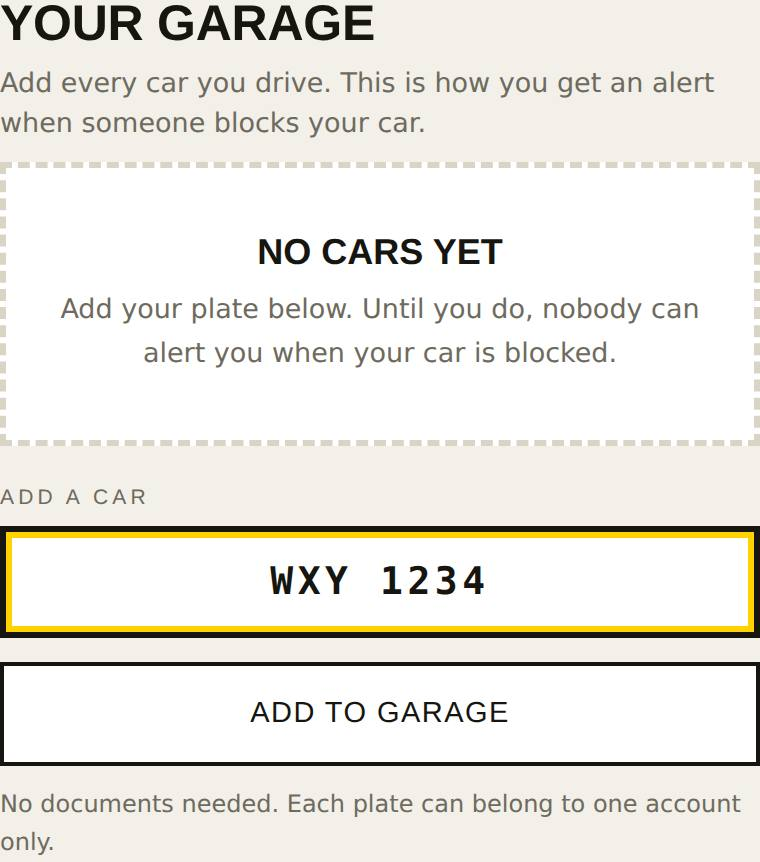
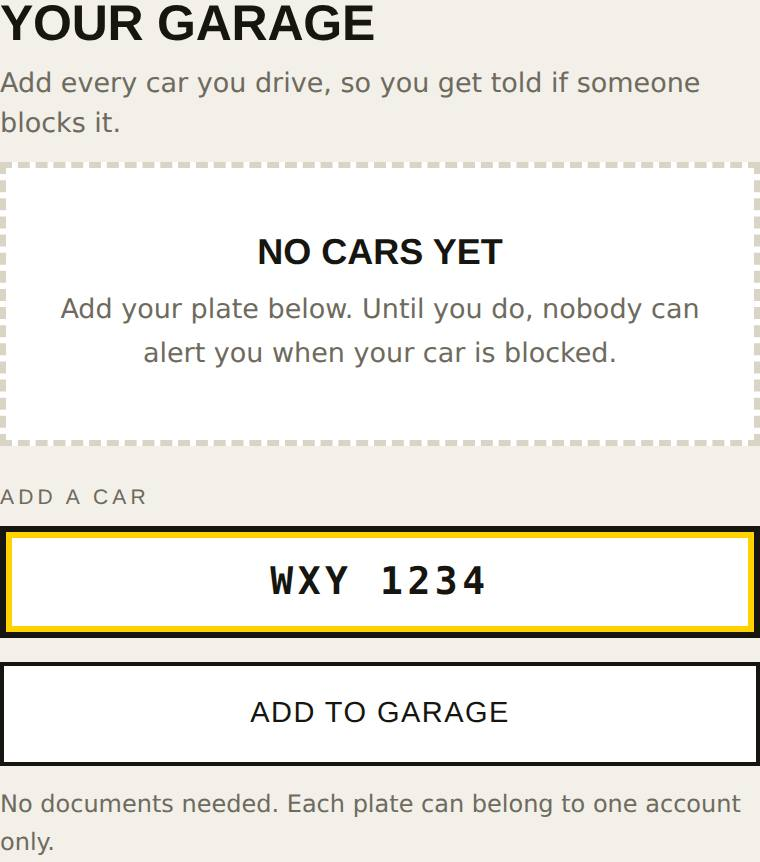
First impression: rotating pitch on the first screen and Help, warmer gate copy
Copy and UI only, no program logic. First screen leads with the blocker's view
(no number, no 2am calls, no name card), six one-line messages in a rotator.
Sign-in, verify and a few app subtitles are shorter and warmer, with BM. The
verify note no longer mentions a link (the code is an OTP). The Facebook link is
hidden until FB_URL is set. Guide screenshots regenerated.

Claude-Session: https://claude.ai/code/session_01LZzr5kwdG5JXyeAKEinPdn

Changed region(s): [[0.0, 0.0603, 0.9382, 0.1508]]

diff --git a/public/index.html b/public/index.html
@@ -331,12 +331,21 @@
     <div class="sign">
       <div class="hazard"></div>
       <div class="pad">
-        <div class="glyph">📍</div>
-        <h1 class="disp">Where are you?</h1>
-        <p>Tolong Alih is for drivers in Malaysia. We check your location once to confirm you're here.</p>
-        <button class="btn btn-hz" id="askGeo">Turn on location</button>
+        <h1 class="disp">Be the considerate driver.</h1>
+        <div class="rot" id="rot">
+          <div class="stack">
+            <div class="rl on"><span class="ri">🙏</span><div class="rt"><b>Say sorry the easy way.</b> A quick heads-up beats an angry honk.</div></div>
+            <div class="rl"><span class="ri">📵</span><div class="rt"><b>Your number stays yours.</b> They see your plate, nothing else. No name card on the dashboard.</div></div>
+            <div class="rl"><span class="ri">🌙</span><div class="rt"><b>No 2am calls.</b> A stranger can't ring you up to vent. Everything goes through the app.</div></div>
+            <div class="rl"><span class="ri">😌</span><div class="rt"><b>Running late? Tell them.</b> They see when you'll be back, and can wait calmly.</div></div>
+            <div class="rl"><span class="ri">🔍</span><div class="rt"><b>Blocked in yourself?</b> Type the plate and we find the driver. No shouting match.</div></div>
+            <div class="rl"><span class="ri">🎁</span><div class="rt"><b>Free for drivers.</b> Local shops pay for it, not you.</div></div>
+          </div>
+          <div class="rdots" id="rotDots"></div>
+        </div>
+        <button class="btn btn-hz" id="askGeo">Get started</button>
         <button class="btn btn-flat" id="mockGeo">Set location manually</button>
-        <p class="note" id="geoNote">Other drivers never see where you are.</p>
+        <p class="note" id="geoNote">Your phone will ask to share your location once. It only checks you're in Malaysia, and other drivers never see it.</p>
       </div>
     </div>
   </section>
@@ -347,9 +356,8 @@
     <div class="sign">
       <div class="hazard"></div>
       <div class="pad">
-        <div class="glyph blue" style="color:#fff">🔑</div>
-        <h1 class="disp">Sign in</h1>
-        <p>Your account links your car plate to you, so only you get its alerts.</p>
+        <h1 class="disp">Almost there.</h1>
+        <p>Make your free account. Your plate is how people reach you. Your name, email and number stay private.</p>
 
         <button class="btn" id="google"><span class="g">G</span>Continue with Google</button>
 
@@ -365,8 +373,8 @@
         <input id="pw" type="password" placeholder="At least 8 characters" autocomplete="current-password" />
         <button class="btn btn-hz" id="signup">Create account</button>
         <button class="btn btn-flat" id="signin">I already have an account</button>
-        <p class="note">By continuing, you agree we keep your email and the plates you add to run the service. You can ask us to delete them any time.</p>
-        <p class="note"><a href="/terms.html" style="color:var(--signage);font-weight:600">Read our simple terms. We never sell your data.</a></p>
+        <p class="note">We never sell your data.</p>
+        <p class="note"><a href="/terms.html" style="color:var(--signage);font-weight:600">Terms of use</a> · <a href="/privacy.html" style="color:var(--signage);font-weight:600">Privacy</a></p>
       </div>
     </div>
   </section>
@@ -379,12 +387,12 @@
       <div class="pad">
         <div class="glyph">✉</div>
         <h1 class="disp">Check your email</h1>
-        <p>Six-digit code sent to <b id="mailTo" class="mono">you@email.com</b>. Verifying keeps fake plate claims out of Tolong Alih.</p>
+        <p>We sent a six-digit code to <b id="mailTo" class="mono">you@email.com</b>. It keeps fake plate claims out.</p>
         <span class="lbl eyebrow">Verification code</span>
         <input id="code" class="plate-in" placeholder="000000" maxlength="6" inputmode="numeric" autocomplete="one-time-code" />
         <button class="btn btn-hz" id="verify">Verify and continue</button>
         <button class="btn btn-flat" id="resend">Send it again</button>
-        <p class="note">Or just tap the link in that email.</p>
+        <p class="note">Nothing yet? Check your spam folder.</p>
       </div>
     </div>
   </section>
@@ -418,7 +426,7 @@
       <!-- DECLARE -->
       <section class="panel on" id="pD" role="tabpanel">
         <h2 class="disp">Declare a block</h2>
-        <p class="sub">Double-parked and blocking someone's car? Tell them here. They get an alert on their phone right away.</p>
+        <p class="sub">Blocking someone in? Tell them here. Their phone buzzes straight away.</p>
 
         <span class="lbl eyebrow">My car</span>
         <div id="pickCars"></div>
@@ -449,13 +457,13 @@
         <h2 class="disp">Alerts</h2>
         <p class="sub">When someone blocks your car, or replies to you, it shows up here.</p>
         <div id="inbox"></div>
-        <a class="fb" href="https://www.facebook.com/" target="_blank" rel="noopener">👍 Follow Tolong Alih on Facebook</a>
+        <a class="fb" id="fbLink" href="#" target="_blank" rel="noopener" hidden>👍 Follow Tolong Alih on Facebook</a>
       </section>
 
       <!-- TRACE -->
       <section class="panel" id="pS" role="tabpanel">
         <h2 class="disp">Trace</h2>
-        <p class="sub">Your car is blocked but you got no alert? Type their plate and yours to find the driver.</p>
+        <p class="sub">Blocked in, but no alert came? Type their plate and yours. We'll find the driver.</p>
         <span class="lbl eyebrow">Plate of the car blocking me</span>
         <input id="qB" class="plate-in" placeholder="ABC 1234" maxlength="12" autocomplete="off" />
         <span class="lbl eyebrow">My plate</span>
@@ -467,7 +475,7 @@
       <!-- GARAGE -->
       <section class="panel" id="pG" role="tabpanel">
         <h2 class="disp" id="gName">Garage</h2>
-        <p class="sub">Add every car you drive. This is how you get an alert when someone blocks your car.</p>
+        <p class="sub">Add every car you drive, so you get told if someone blocks it.</p>
         <div id="garage"></div>
         <span class="lbl eyebrow">Add a car</span>
         <input id="newPlate" class="plate-in" placeholder="JQY 2841" maxlength="12" autocomplete="off" />
@@ -489,7 +497,7 @@
 
     <footer>
       <b>Tolong Alih</b>
-      <span>Tell drivers when you've blocked them. Get told when you're blocked. Your details stay private.</span>
+      <span>Tell them you've blocked them. Hear when you're blocked. Your number stays private.</span>
       <nav class="flinks"><a href="/terms.html">Terms of use</a><a href="/privacy.html">Privacy</a></nav>
       <small class="ver" id="ver"></small>
     </footer>
@@ -599,21 +607,16 @@ function $(id){ return document.getElementById(id); }
    as the server wrote them. */
 var MS = {
   /* gate 1 */
-  "Where are you?":"Anda di mana?",
-  "Tolong Alih is for drivers in Malaysia. We check your location once to confirm you're here.":"Tolong Alih untuk pemandu di Malaysia. Kami semak lokasi anda sekali untuk memastikan anda berada di sini.",
   "Install Tolong Alih":"Pasang Tolong Alih",
   "Don't miss it when someone needs you to move, or you're blocked in.":"Jangan terlepas apabila seseorang perlu anda alihkan kereta, atau anda terhalang.",
   "Tap Share ⬆ then Add to Home Screen":"Ketuk Kongsi ⬆ kemudian Tambah ke Skrin Utama",
   "Install":"Pasang",
-  "Turn on location":"Hidupkan lokasi",
   "Set location manually":"Tetapkan lokasi sendiri",
   "Locating…":"Mencari lokasi…",
   "Still trying…":"Masih mencuba…",
   "Try again":"Cuba lagi",
-  "Other drivers never see where you are.":"Pemandu lain tidak akan nampak lokasi anda.",
   /* gate 2 */
   "Sign in":"Log masuk",
-  "Your account links your car plate to you, so only you get its alerts.":"Akaun anda mengikat plat kereta kepada anda, jadi hanya anda yang menerima amarannya.",
   "Continue with Google":"Teruskan dengan Google",
   "or":"atau",
   "Email":"E-mel",
@@ -621,16 +624,39 @@ var MS = {
   "At least 8 characters":"Sekurang-kurangnya 8 aksara",
   "Create account":"Buka akaun",
   "I already have an account":"Saya sudah ada akaun",
-  "By continuing, you agree we keep your email and the plates you add to run the service. You can ask us to delete them any time.":"Dengan meneruskan, anda bersetuju kami menyimpan e-mel dan plat yang anda tambah untuk menjalankan perkhidmatan ini. Anda boleh minta kami padamnya bila-bila masa.",
   /* gate 3 */
   "Check your email":"Semak e-mel anda",
   "Verification code":"Kod pengesahan",
   "Verify and continue":"Sahkan dan teruskan",
   "Send it again":"Hantar sekali lagi",
-  "Or just tap the link in that email.":"Atau tekan sahaja pautan dalam e-mel itu.",
   /* gate 4 */
   /* account sheet */
   "Change photo":"Tukar gambar",
+  "Say sorry the easy way.":"Minta maaf dengan cara mudah.",
+  "A quick heads-up beats an angry honk.":"Satu pemberitahuan ringkas lebih baik daripada hon yang marah.",
+  "Your number stays yours.":"Nombor anda kekal milik anda.",
+  "They see your plate, nothing else. No name card on the dashboard.":"Mereka hanya nampak plat anda, tiada yang lain. Tak perlu letak kad nama di dashboard.",
+  "No 2am calls.":"Tiada panggilan pukul 2 pagi.",
+  "A stranger can't ring you up to vent. Everything goes through the app.":"Orang yang tak dikenali tak boleh telefon anda untuk melepaskan marah. Semuanya melalui aplikasi.",
+  "Running late? Tell them.":"Lambat sikit? Beritahu mereka.",
+  "They see when you'll be back, and can wait calmly.":"Mereka nampak bila anda kembali, dan boleh menunggu dengan tenang.",
+  "Blocked in yourself?":"Anda pula yang terhalang?",
+  "Type the plate and we find the driver. No shouting match.":"Taip plat dan kami cari pemandunya. Tak perlu bergaduh.",
+  "Free for drivers.":"Percuma untuk pemandu.",
+  "Local shops pay for it, not you.":"Kedai tempatan yang membayar, bukan anda.",
+  "Be the considerate driver.":"Jadilah pemandu yang bertimbang rasa.",
+  "Get started":"Mula sekarang",
+  "Your phone will ask to share your location once. It only checks you're in Malaysia, and other drivers never see it.":"Telefon anda akan minta kongsi lokasi sekali sahaja. Ia hanya menyemak anda berada di Malaysia, dan pemandu lain tidak akan nampaknya.",
+  "Almost there.":"Hampir siap.",
+  "Make your free account. Your plate is how people reach you. Your name, email and number stay private.":"Buka akaun percuma anda. Plat anda ialah cara orang menghubungi anda. Nama, e-mel dan nombor anda kekal peribadi.",
+  "We never sell your data.":"Kami tidak pernah menjual data anda.",
+  "We sent a six-digit code to":"Kami hantar kod enam digit ke",
+  ". It keeps fake plate claims out.":". Ia menghalang tuntutan plat palsu.",
+  "Nothing yet? Check your spam folder.":"Belum nampak? Semak folder spam anda.",
+  "Blocking someone in? Tell them here. Their phone buzzes straight away.":"Menghalang kereta orang? Beritahu mereka di sini. Telefon mereka terus berbunyi.",
+  "Blocked in, but no alert came? Type their plate and yours. We'll find the driver.":"Terhalang tetapi tiada amaran? Taip plat mereka dan plat anda. Kami cari pemandunya.",
+  "Add every car you drive, so you get told if someone blocks it.":"Tambah setiap kereta yang anda pandu, supaya anda diberitahu jika ada yang menghalangnya.",
+  "Tell them you've blocked them. Hear when you're blocked. Your number stays private.":"Beritahu mereka anda menghalang. Dengar apabila anda dihalang. Nombor anda kekal peribadi.",
   "Remove photo":"Buang gambar",
   "This email already has a password account that was never verified. Choose “I already have an account”, enter your password, verify the code we email you, then Google works too.":"Emel ini sudah ada akaun kata laluan yang belum disahkan. Pilih “I already have an account”, masukkan kata laluan, sahkan kod yang kami emel, kemudian Google pun boleh digunakan.",
   "Google sign-in did not go through. Try again, or use your email and password.":"Log masuk Google tidak berjaya. Cuba lagi, atau guna emel dan kata laluan.",
@@ -664,7 +690,6 @@ var MS = {
   "Could not turn on alerts.":"Tidak dapat menghidupkan amaran.",
   /* declare */
   "Declare a block":"Isytihar halangan",
-  "Double-parked and blocking someone's car? Tell them here. They get an alert on their phone right away.":"Parkir berganda dan menghalang kereta orang? Beritahu mereka di sini. Mereka terus menerima amaran di telefon.",
   "My car":"Kereta saya",
   "Plate of the car I'm blocking":"Plat kereta yang saya halang",
   "Second plate":"Plat kedua",
@@ -687,7 +712,6 @@ var MS = {
   "Still blocking me":"Masih menghalang saya",
   /* trace */
   "Trace":"Jejak",
-  "Your car is blocked but you got no alert? Type their plate and yours to find the driver.":"Kereta anda dihalang tetapi tiada amaran? Taip plat mereka dan plat anda untuk mencari pemandunya.",
   "Plate of the car blocking me":"Plat kereta yang menghalang saya",
   "My plate":"Plat saya",
   "Find the driver":"Cari pemandu",
@@ -695,7 +719,6 @@ var MS = {
   /* garage */
   "Garage":"Garaj",
   "Your garage":"Garaj anda",
-  "Add every car you drive. This is how you get an alert when someone blocks your car.":"Tambah setiap kereta yang anda pandu. Inilah cara anda menerima amaran apabila seseorang menghalang kereta anda.",
   "No cars yet":"Belum ada kereta",
   "Add your plate below. Until you do, nobody can alert you when your car is blocked.":"Tambah plat anda di bawah. Selagi belum, tiada sesiapa boleh memberi amaran apabila kereta anda dihalang.",
   "Nothing to drive":"Tiada kereta",
@@ -726,7 +749,6 @@ var MS = {
   "Continue in":"Teruskan dalam",
   "Remove photo":"Buang gambar",
   "About & contact us":"Tentang & hubungi kami",
-  "Tell drivers when you've blocked them. Get told when you're blocked. Your details stay private.":"Beritahu pemandu apabila anda menghalang mereka. Dapat amaran apabila anda dihalang. Butiran anda kekal peribadi.",
   /* toasts */
   "Location confirmed — Malaysia":"Lokasi disahkan — Malaysia",
   "Signed in with Google":"Log masuk dengan Google",
@@ -940,7 +962,7 @@ $("askGeo").addEventListener("click", async function(){
     catch(e2){
       g = ipFallback();
       if(g){
-        btn.disabled = false; btn.textContent = "Turn on location";
+        btn.disabled = false; btn.textContent = "Get started";
         acceptGeo(g, "Located by network — "+g.place);
         return;
       }
@@ -953,7 +975,7 @@ $("askGeo").addEventListener("click", async function(){
       return;
     }
   }
-  btn.disabled = false; btn.textContent = "Turn on location";
+  btn.disabled = false; btn.textContent = "Get started";
   acceptGeo(g);
 });
 
@@ -1114,6 +1136,10 @@ $("clearPic").addEventListener("click", async function(){
   paintAvatar();
   toast("Photo removed");
 });
+
+/* The Facebook page link stays hidden until there is a real page: set FB_URL. */
+var FB_URL = "";
+if(FB_URL){ var fb = $("fbLink"); fb.href = FB_URL; fb.hidden = false; }
 
 /* ================= boot ================= */
 /* Google can send the driver back with ?error=... — say why, in plain words. */
@@ -1991,6 +2017,28 @@ function markSeen(){ try{ localStorage.setItem(SEEN, "1"); }catch(e){} }
   stage("gGeo");
 })();
 
+})();
+</script>
+<script>
+/* The pitch rotator: one short line at a time, tap a dot to pick, still when the
+   phone asks for less motion. */
+(function(){
+  var r = document.getElementById("rot"); if(!r) return;
+  var ls = [].slice.call(r.querySelectorAll(".rl")), dots = document.getElementById("rotDots"), i = 0, t = null;
+  var calm = window.matchMedia && matchMedia("(prefers-reduced-motion: reduce)").matches;
+  function show(n){
+    i = n;
+    ls.forEach(function(l,k){ l.classList.toggle("on", k===n); });
+    [].forEach.call(dots.children, function(d,k){ d.setAttribute("aria-current", k===n ? "true" : "false"); });
+  }
+  function run(){ clearInterval(t); if(!calm) t = setInterval(function(){ show((i+1)%ls.length); }, 4500); }
+  ls.forEach(function(_,n){
+    var b = document.createElement("button"); b.type = "button";
+    b.setAttribute("aria-label", "Message "+(n+1)+" of "+ls.length);
+    b.addEventListener("click", function(){ show(n); run(); });
+    dots.appendChild(b);
+  });
+  show(0); run();
 })();
 </script>
 </body>

diff --git a/public/start.html b/public/start.html
@@ -5,7 +5,7 @@
 <meta name="viewport" content="width=device-width, initial-scale=1, viewport-fit=cover" />
 <meta name="theme-color" content="#16150F" />
 <title>How it works · Tolong Alih</title>
-<meta name="description" content="Blocked in by a double-parked car? Tolong Alih tells the other driver using only the car plate. No contact details shared. Set up in 3 minutes." />
+<meta name="description" content="Double-parked or blocked in? Tolong Alih tells the other driver using only the car plate. No contact details shared. Set up in 3 minutes." />
 <meta property="og:title" content="Tolong Alih — how it works" />
 <meta property="og:description" content="Reach the driver who blocked you, using only their car plate." />
 <meta property="og:type" content="website" />
@@ -107,8 +107,18 @@
   <main>
     <!-- ================= what it is ================= -->
     <section>
-      <h1 class="disp">Blocked in by a double-parked car?</h1>
-      <p class="lede">Tolong Alih lets you reach the other driver using <b>only their car plate</b>. No contact details are shared, ever.</p>
+      <h1 class="disp">Double-parked? Blocked in? Sort it politely.</h1>
+      <div class="rot" id="rot">
+          <div class="stack">
+            <div class="rl on"><span class="ri">🙏</span><div class="rt"><b>Say sorry the easy way.</b> A quick heads-up beats an angry honk.</div></div>
+            <div class="rl"><span class="ri">📵</span><div class="rt"><b>Your number stays yours.</b> They see your plate, nothing else. No name card on the dashboard.</div></div>
+            <div class="rl"><span class="ri">🌙</span><div class="rt"><b>No 2am calls.</b> A stranger can't ring you up to vent. Everything goes through the app.</div></div>
+            <div class="rl"><span class="ri">😌</span><div class="rt"><b>Running late? Tell them.</b> They see when you'll be back, and can wait calmly.</div></div>
+            <div class="rl"><span class="ri">🔍</span><div class="rt"><b>Blocked in yourself?</b> Type the plate and we find the driver. No shouting match.</div></div>
+            <div class="rl"><span class="ri">🎁</span><div class="rt"><b>Free for drivers.</b> Local shops pay for it, not you.</div></div>
+          </div>
+          <div class="rdots" id="rotDots"></div>
+        </div>
       <a class="cta" href="#setup">Set up in 3 minutes</a>
       <a class="quiet" href="/" data-start>I've used it before — open the app</a>
     </section>
@@ -331,10 +341,18 @@ if(ENV.release){
 /* ---- language: same approach and storage key as the app ---- */
 var MS = {
   "Skip to the app →":"Terus ke aplikasi →",
-  "Blocked in by a double-parked car?":"Kereta anda dihalang parkir berganda?",
-  "Tolong Alih lets you reach the other driver using":"Tolong Alih membolehkan anda menghubungi pemandu itu menggunakan",
-  "only their car plate":"plat kereta mereka sahaja",
-  ". No contact details are shared, ever.":". Tiada butiran hubungan dikongsi, sama sekali.",
+  "Say sorry the easy way.":"Minta maaf dengan cara mudah.",
+  "A quick heads-up beats an angry honk.":"Satu pemberitahuan ringkas lebih baik daripada hon yang marah.",
+  "Your number stays yours.":"Nombor anda kekal milik anda.",
+  "They see your plate, nothing else. No name card on the dashboard.":"Mereka hanya nampak plat anda, tiada yang lain. Tak perlu letak kad nama di dashboard.",
+  "No 2am calls.":"Tiada panggilan pukul 2 pagi.",
+  "A stranger can't ring you up to vent. Everything goes through the app.":"Orang yang tak dikenali tak boleh telefon anda untuk melepaskan marah. Semuanya melalui aplikasi.",
+  "Running late? Tell them.":"Lambat sikit? Beritahu mereka.",
+  "They see when you'll be back, and can wait calmly.":"Mereka nampak bila anda kembali, dan boleh menunggu dengan tenang.",
+  "Blocked in yourself?":"Anda pula yang terhalang?",
+  "Type the plate and we find the driver. No shouting match.":"Taip plat dan kami cari pemandunya. Tak perlu bergaduh.",
+  "Local shops pay for it, not you.":"Kedai tempatan yang membayar, bukan anda.",
+  "Double-parked? Blocked in? Sort it politely.":"Parkir berganda? Terhalang? Selesaikan dengan sopan.",
   "Set up in 3 minutes":"Sedia dalam 3 minit",
   "I've used it before — open the app":"Saya pernah guna — buka aplikasi",
   "How it works":"Cara ia berfungsi",
@@ -440,6 +458,28 @@ $("langBtn").addEventListener("click", function(){
   applyLang();
 });
 applyLang();
+})();
+</script>
+<script>
+/* The pitch rotator: one short line at a time, tap a dot to pick, still when the
+   phone asks for less motion. */
+(function(){
+  var r = document.getElementById("rot"); if(!r) return;
+  var ls = [].slice.call(r.querySelectorAll(".rl")), dots = document.getElementById("rotDots"), i = 0, t = null;
+  var calm = window.matchMedia && matchMedia("(prefers-reduced-motion: reduce)").matches;
+  function show(n){
+    i = n;
+    ls.forEach(function(l,k){ l.classList.toggle("on", k===n); });
+    [].forEach.call(dots.children, function(d,k){ d.setAttribute("aria-current", k===n ? "true" : "false"); });
+  }
+  function run(){ clearInterval(t); if(!calm) t = setInterval(function(){ show((i+1)%ls.length); }, 4500); }
+  ls.forEach(function(_,n){
+    var b = document.createElement("button"); b.type = "button";
+    b.setAttribute("aria-label", "Message "+(n+1)+" of "+ls.length);
+    b.addEventListener("click", function(){ show(n); run(); });
+    dots.appendChild(b);
+  });
+  show(0); run();
 })();
 </script>
 </body>

diff --git a/public/chrome.css b/public/chrome.css
@@ -51,3 +51,18 @@ body{padding-bottom:calc(66px + env(safe-area-inset-bottom))}
 .tabbar a:focus-visible{outline:3px solid var(--hazard);outline-offset:-5px}
 .tabbar .nudge{position:absolute;top:7px;right:calc(50% - 16px);width:9px;height:9px;background:var(--hazard);border-radius:50%}
 .tabbar .nudge[hidden]{display:none}
+
+/* ---------- the pitch rotator: one short line at a time (app + Help) ---------- */
+.rot{margin:16px 0 4px}
+.rot .stack{display:grid}
+.rot .rl{grid-area:1/1;display:flex;gap:13px;align-items:flex-start;opacity:0;visibility:hidden;
+  transition:opacity .4s,visibility .4s;background:#F2F0E9;border-left:6px solid #FFD200;padding:15px 14px}
+.rot .rl.on{opacity:1;visibility:visible}
+.rot .ri{font-size:28px;line-height:1;flex:none}
+.rot .rt{font-size:15px;line-height:1.45;color:#3B382E;text-align:left}
+.rot .rt b{display:block;font-size:17px;line-height:1.25;color:#16150F;margin-bottom:3px}
+.rot .rdots{display:flex;justify-content:center;gap:2px;margin-top:6px}
+.rot .rdots button{width:24px;height:24px;padding:0;margin:0;border:0;background:none;cursor:pointer;box-shadow:none}
+.rot .rdots button::before{content:"";display:block;width:10px;height:10px;margin:auto;border:2px solid #16150F;border-radius:50%}
+.rot .rdots button[aria-current="true"]::before{background:#FFD200}
+@media (prefers-reduced-motion:reduce){.rot .rl{transition:none}}
